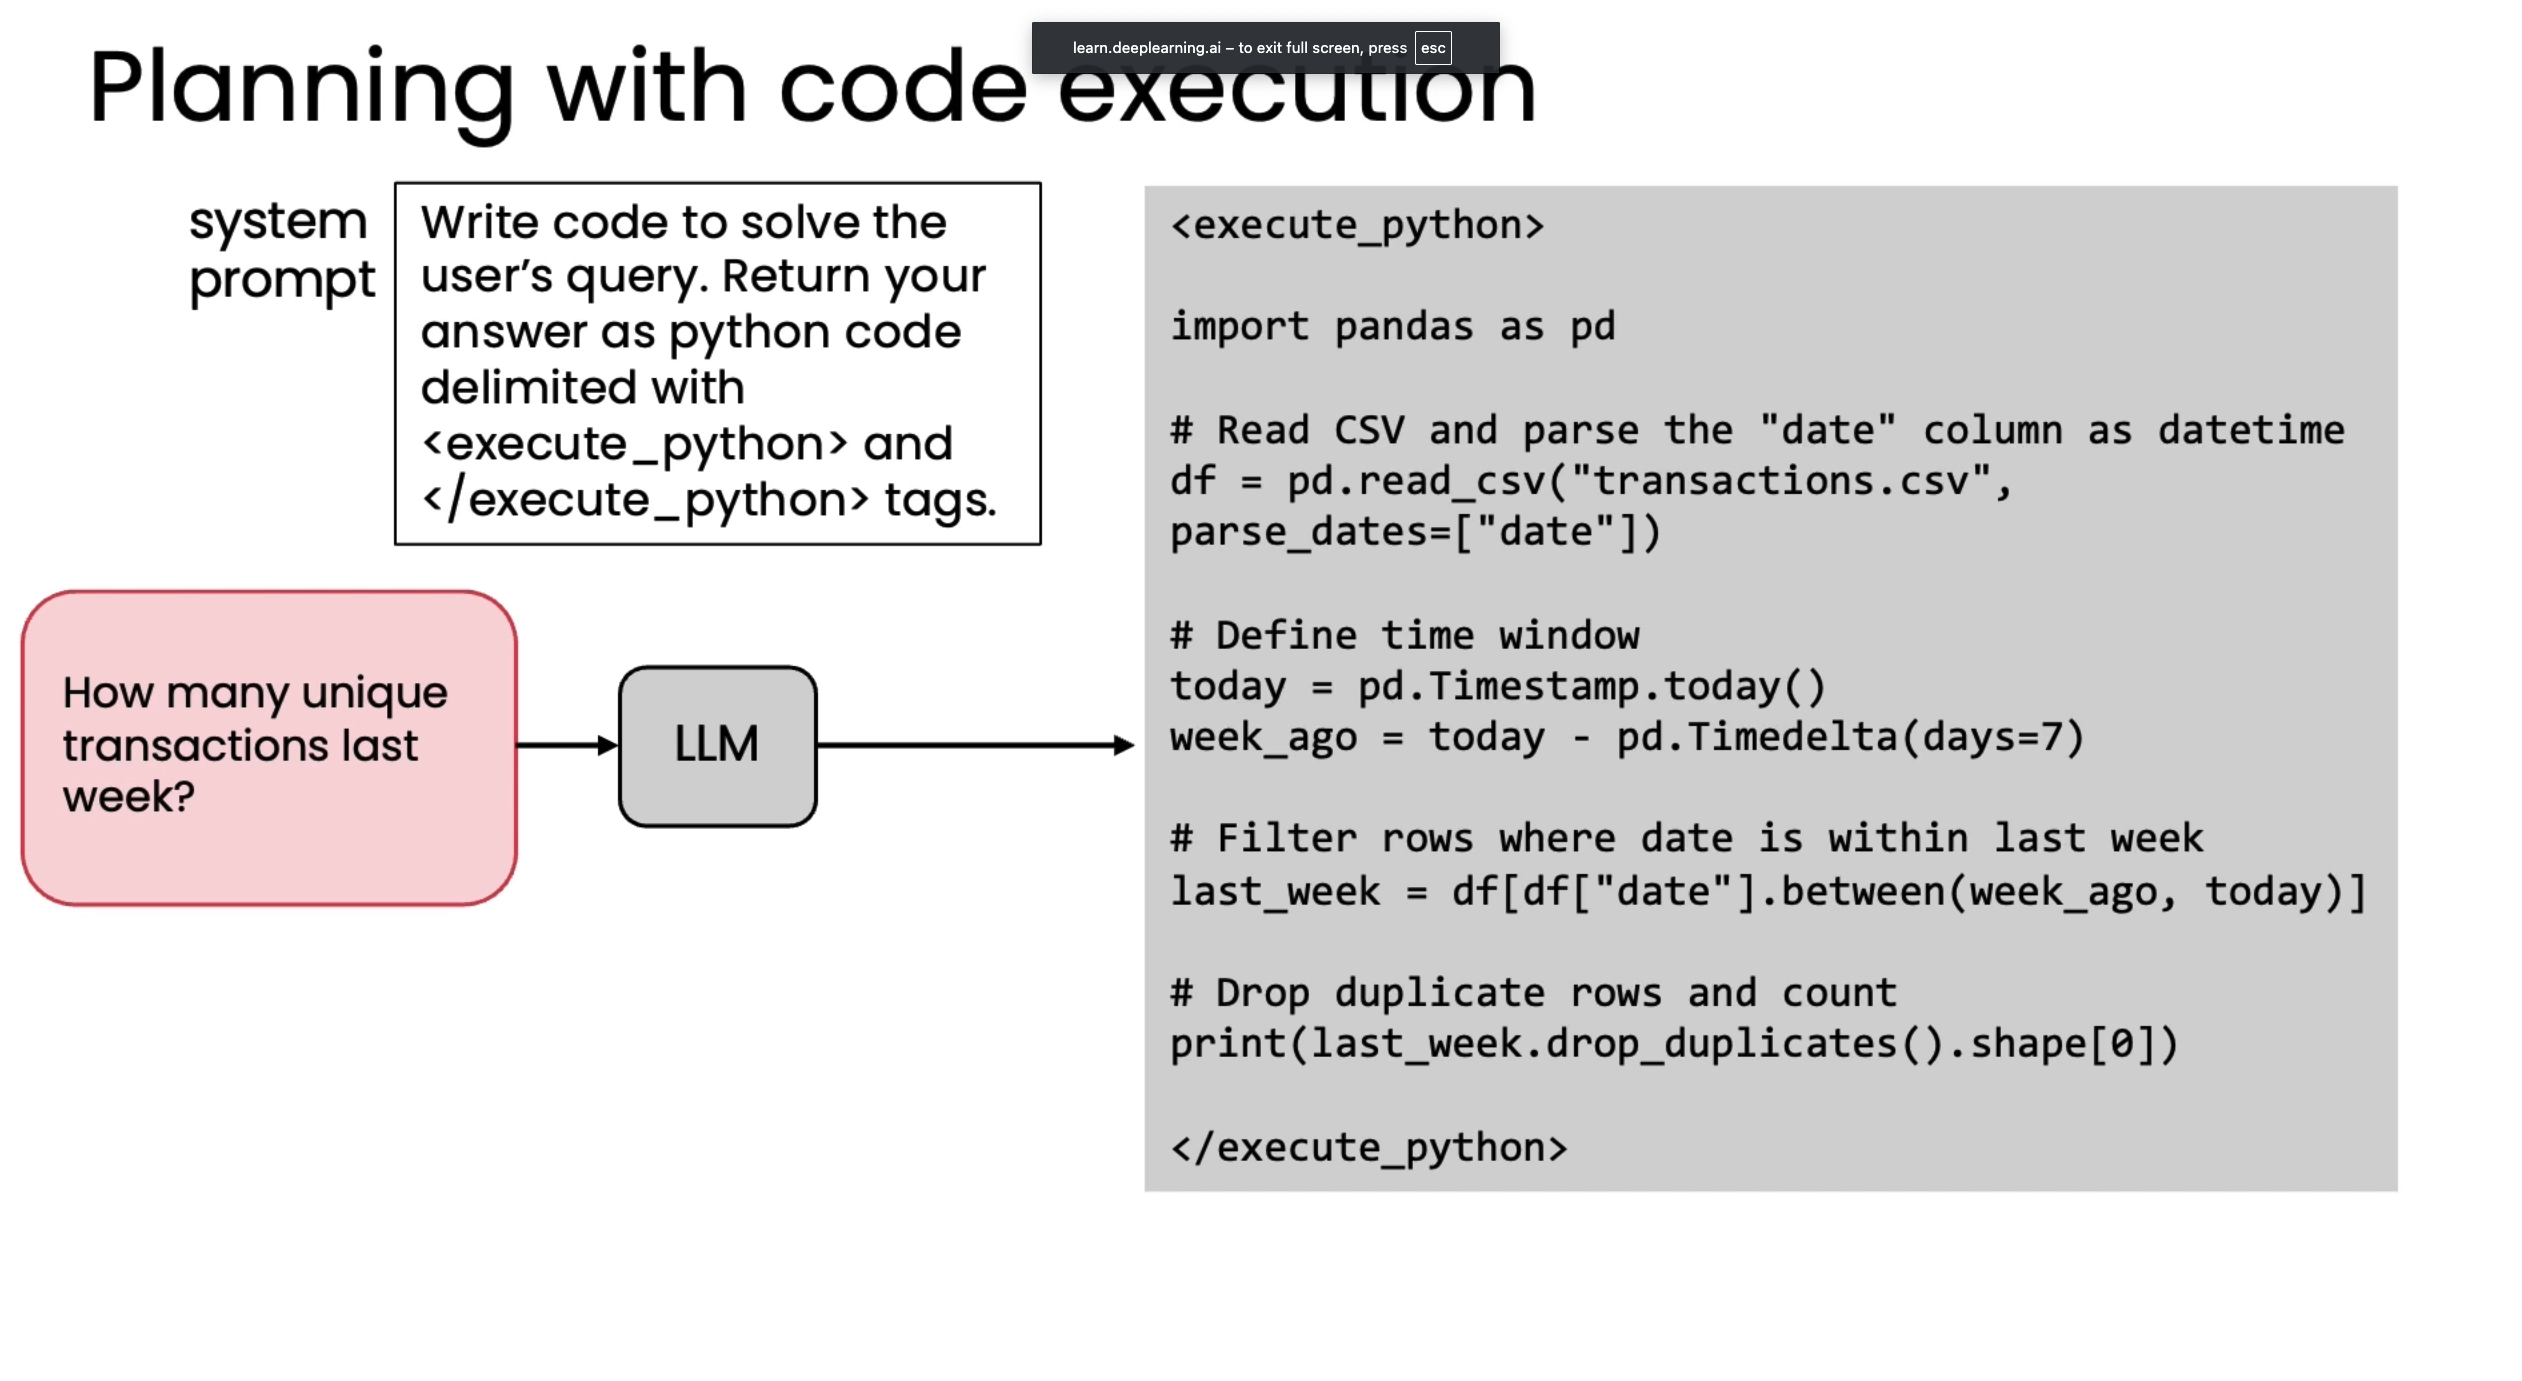
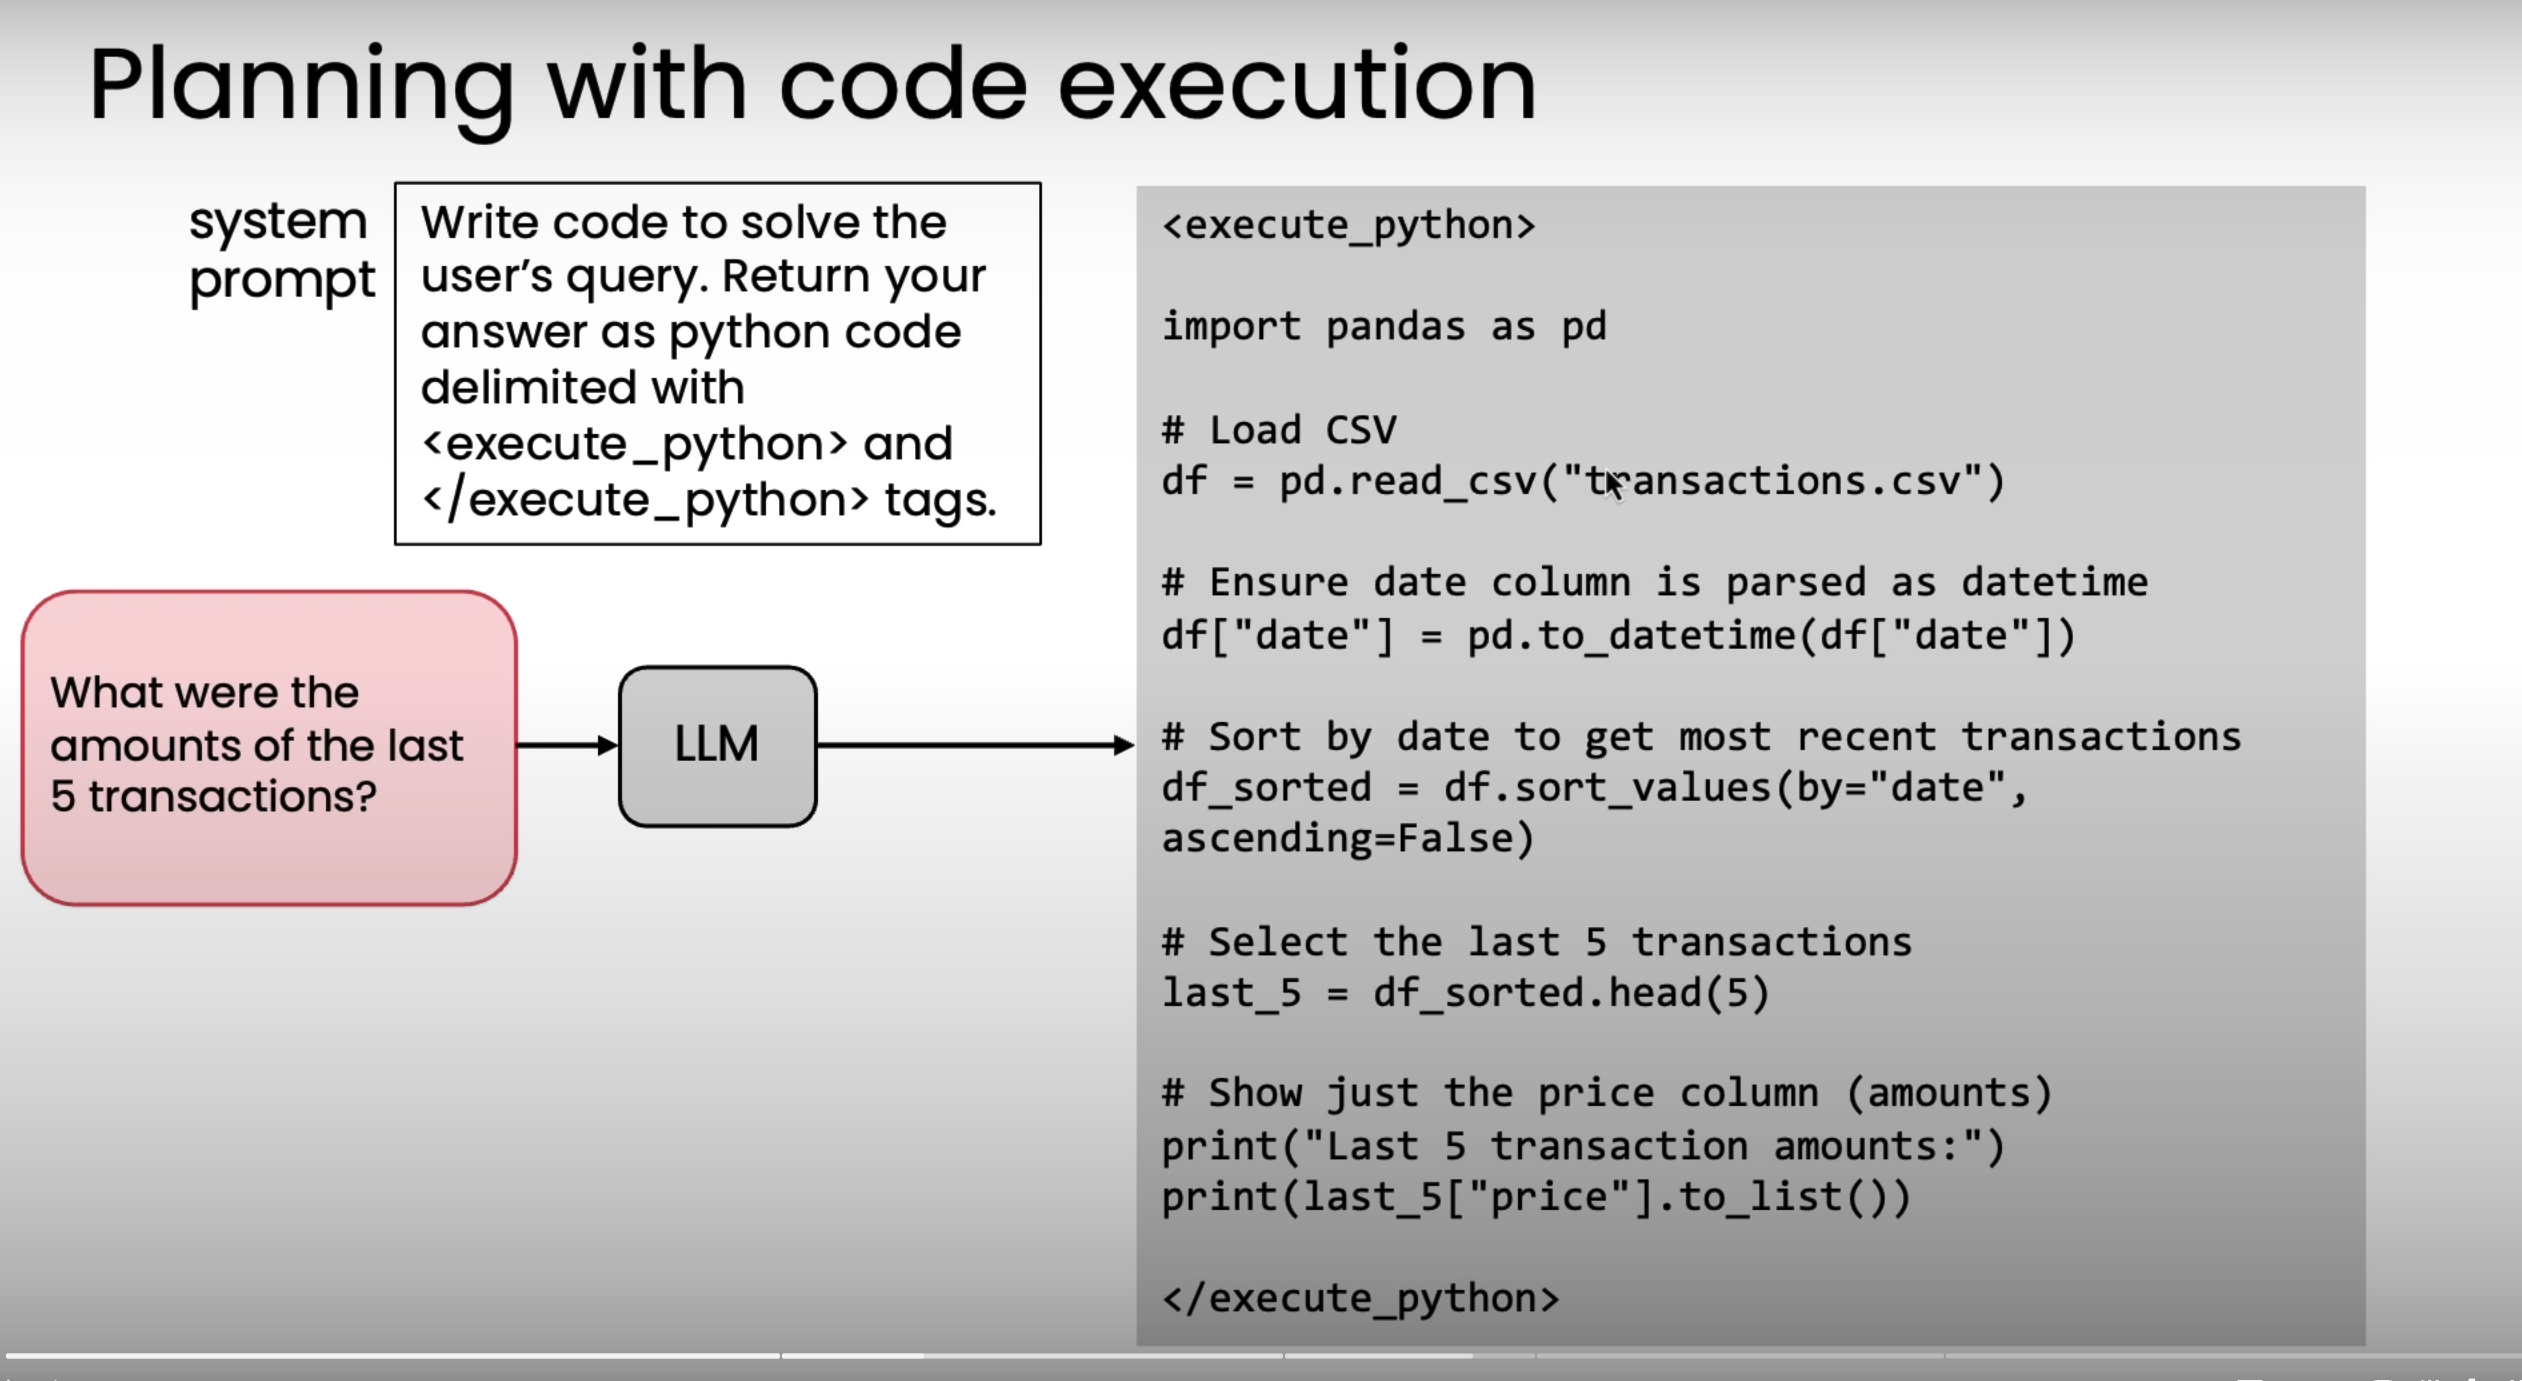
Publish Agentic AI.

diff --git a/_posts/2026-05-30-agentic-ai.md b/_posts/2026-05-30-agentic-ai.md
@@ -1,0 +1,172 @@
+---
+title: Agentic AI
+date: 2026-05-30 08:00:00 +0100
+permalink: /posts/agentic-ai/
+categories: [notes, ai]
+tags: [ai, agentic ai, software]
+description: Notes from the DeepLearning.AI course on agentic AI workflows and design patterns.
+mermaid: true
+---
+
+## Module 1: Introduction to Agentic Workflows
+
+An agentic workflow follows an iterative cycle where thinking and research are followed by revision and further refinement. Unlike traditional linear prompts, an LLM-based application executes multiple steps autonomously to complete a complex task.
+
+Agentic AI can range from low to high levels of autonomy depending on the design.
+
+![Degrees of Autonomy](/assets/images/agentic-ai/agentic-ai-degrees-of-autonomy.png)
+
+### Benefits of Agentic Workflows
+
+- **Superior Performance:** Outperforms non-agentic workflows on complex reasoning tasks.
+- **Parallelization:** Ability to run multiple sub-tasks concurrently.
+- **Modularity:** Easy to add tools, update capabilities, or swap underlying models.
+
+![Tasks for Agentic AI](/assets/images/agentic-ai/agentic-ai-tasks.png)
+
+### Task Decomposition
+
+Breaking a task down into smaller, manageable steps often yields better results than direct generation or one-shot prompting.
+
+![Breaking Down Tasks for Agentic AI](/assets/images/agentic-ai/agentic-ai-task-decomposition.png)
+
+**Building Blocks:**
+
+- **Models:** LLMs and specialized AI models.
+- **Tools:** APIs, information retrieval (RAG), and code execution.
+
+The goal is to decompose tasks until each step can be handled reliably by one of these building blocks.
+
+### Evaluating Agentic AI (Evals)
+
+Once a workflow is built, focus on the low-quality outputs to drive improvements.
+
+- **Objective Evals:** Automated checks (e.g., code execution results, unit tests).
+- **Subjective Evals:** Using an LLM as a judge to evaluate qualitative aspects.
+
+Evaluation can happen at different scales:
+
+- **End-to-End:** Testing the entire workflow.
+- **Component-Level:** Testing individual steps or tools.
+
+Examining intermediate traces is essential for effective error analysis.
+
+### Agentic Design Patterns
+
+There are four primary design patterns for building agentic workflows:
+
+```mermaid
+graph TD
+    A[Agentic Design Patterns] --> B[Reflection]
+    A --> C[Tool Use]
+    A --> D[Planning]
+    A --> E[Multi-agent Collaboration]
+    B --> B1[Self-reflection]
+    B --> B2[Critic Agent]
+    D --> D1[JSON/Text Plan]
+    D --> D2[Planning with Code]
+    E --> E1[Linear Handoff]
+    E --> E2[Hierarchical]
+```
+
+- **Reflection:** The agent critiques its own output or receives feedback from a critic agent.
+- **Tool Use:** Leveraging external tools like web search or database queries.
+- **Planning:** The agent determines the sequence of actions needed to reach a goal.
+- **Multi-agent Collaboration:** Specialized agents working together often outperform a single generalist agent.
+
+## Module 2: Reflection Design Pattern
+
+Reflection becomes significantly more powerful when external information is injected into the cycle. For example, running generated code and passing the execution errors back to the LLM allows it to self-correct.
+
+```mermaid
+graph LR
+    A[Initial Prompt] --> B[LLM Generates Code]
+    B --> C[Execute Code in Sandbox]
+    C --> D{Success?}
+    D -- No --> E[Pass Error to LLM]
+    E --> F[LLM Reflects and Fixes]
+    F --> B
+    D -- Yes --> G[Final Output]
+```
+
+![Reflection with External Feedback](/assets/images/agentic-ai/agentic-ai-reflection.png)
+
+Reflection consistently outperforms zero-shot, one-shot, and few-shot prompting for complex logic.
+
+![Tasks for Reflection](/assets/images/agentic-ai/agentic-ai-reflection-tasks.png)
+
+### Tips for Reflection Prompts
+
+- Clearly define the reflection action (e.g., "Review the following code for security vulnerabilities").
+- Specify explicit criteria for the check.
+- Consider using a specialized reasoning model or a multimodal LLM for the reflection step.
+
+### Evaluating Reflection
+
+Using LLMs for evaluation can introduce position bias (preferring the first option). To mitigate this, use a clear **quality rubric** with specific grading criteria.
+
+![External Feedback Improvement](/assets/images/agentic-ai/agentic-ai-external-feedback.png)
+
+![Tools to Help Reflection](/assets/images/agentic-ai/agentic-ai-reflection-tools.png)
+
+## Module 3: Tool Use
+
+Tools are functions that enable LLMs to interact with the world—searching the web, querying databases, or performing calculations.
+
+Modern LLMs are specifically trained for tool calling. A significant advancement is the **Model Context Protocol (MCP)**, which provides a standardized way for agents to access a broad ecosystem of tools.
+
+**Safety Note:** Always execute LLM-generated code in a sandboxed environment to prevent security risks.
+
+## Module 4: Practical Tips for Building Agentic AI
+
+Build a quick prototype first. This helps identify which components are performing unsatisfactorily so you can focus your efforts where they matter most.
+
+### The Iterative Development Process
+
+1. **Build:** Create an end-to-end prototype.
+2. **Analyze:** Examine traces and outputs to find weaknesses.
+3. **Measure:** Implement evals and track metrics.
+4. **Refine:** Improve prompts, swap models, or tune hyperparameters.
+
+### Optimization
+
+- **Latency:** Time each step. Use parallelism or faster models for non-critical steps.
+- **Cost:** Measure per-token cost per step to identify expensive components.
+
+## Module 5: Patterns for Highly Autonomous Agents
+
+### Planning
+
+Rather than hardcoding a sequence, ask the LLM to create a plan. Research indicates that **Planning with Code** (where the LLM writes a script to solve the problem) often produces more robust results than simple JSON-based plans.
+
+![Planning with JSON](/assets/images/agentic-ai/agentic-ai-planning.png)
+_Example of JSON-based planning_
+
+![Planning with Code](/assets/images/agentic-ai/agentic-ai-planning-with-code.png)
+_Planning where the LLM writes and executes code_
+
+### Multi-Agent Systems
+
+Complex tasks often benefit from a "team" of agents (e.g., Researcher, Writer, and Editor).
+
+**Communication Patterns:**
+
+- **Linear:** Sequential handoffs.
+- **Hierarchical:** A "manager" agent delegating to specialists.
+- **All-to-all:** Collaborative communication.
+
+## Summary
+
+Agentic AI transforms LLMs from passive text generators into active problem solvers through:
+
+- **Reflection** for self-correction.
+- **Tool Use** for external interaction.
+- **Planning** for complex sequences.
+- **Multi-agent Systems** for specialized collaboration.
+
+## Certificate
+
+![Agentic AI Certificate](/assets/images/agentic-ai/agentic-ai-certificate.png)
+_Certificate for completion of the Agentic AI course_
+
+Validate the certificate at the [DeepLearning.AI validation link](https://learn.deeplearning.ai/certificates/c9102bb2-5c3e-482e-9cbe-cd9d2ff0f246).

diff --git a/_tabs/about.md b/_tabs/about.md
@@ -99,6 +99,7 @@ _University of Ljubljana, Slovenia (2012)_
 
 ### AI
 
+- **[Agentic AI](/posts/agentic-ai/)** (DeepLearning.AI, 2026)
 - **[Spec-Driven Development with Coding Agents](/posts/spec-driven-development/)** (DeepLearning.AI, 2026)
 - **[Generative AI for Software Development](/posts/generative-ai-for-software-development/)** (DeepLearning.AI, 2026)
 - **[Building Your Own Database Agent](/posts/building-database-agent/)** (DeepLearning.AI, 2026)